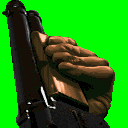
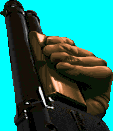
weapon textures can now be different sizes

diff --git a/src/raycaster.cpp b/src/raycaster.cpp
@@ -50,10 +50,14 @@ struct Sprite {
 struct Weapon {
 	std::string name;
 	int frameCount;
+	std::vector<int> frameSmallWidth;
+	std::vector<int> frameSmallHeight;
 	std::vector<std::vector<Uint32>> frameSmall;
+	std::vector<int> frameWidth;
+	std::vector<int> frameHeight;
 	std::vector<std::vector<Uint32>> frame;
 	std::vector<int> frameSequence;
-	std::vector<int> frameTime;
+	int frameTime;
 };
 
 int worldMap[mapWidth][mapHeight] = {
@@ -127,15 +131,17 @@ void combSort(int* order, double* dist, int amount) {
 }
 
 void drawWeapon(int id, int seq) {
-	int drawStartY = h - 256;
-	int drawEndY = drawStartY + 256;
-	int drawStartX = (w / 2) - 128;
-	int drawEndX = drawStartX + 256;
+	// take the sequence in the animation and convert to the actual frame to draw
 	int frame = weapon[id].frameSequence[seq];
+
+	int drawStartY = h - weapon[id].frameHeight[frame];
+	int drawEndY = drawStartY + weapon[id].frameHeight[frame];
+	int drawStartX = (w / 2) - (weapon[id].frameWidth[frame] / 2);
+	int drawEndX = drawStartX + weapon[id].frameWidth[frame];
 	for(int y = drawStartY; y < drawEndY; y++) {
 		for(int x = drawStartX; x < drawEndX; x++) {
-			Uint32 color = weapon[id].frame[frame][256 * (y - drawStartY) + (x - drawStartX)];
-			if(INTtoRGB(color) != ColorRGB(0, 255, 0)) {
+			Uint32 color = weapon[id].frame[frame][weapon[id].frameWidth[frame] * (y - drawStartY) + (x - drawStartX)];
+			if(INTtoRGB(color) != ColorRGB(0, 255, 255)) {
 				buffer[y][x] = color;
 			}
 		}
@@ -168,17 +174,41 @@ int main() {
 	loadImage(texture[2], tw, th, "data/textures/ceiling.png");
 	loadImage(texture[3], tw, th, "data/sprites/imp_standing.png");
 
-	// load weapons
+	// configure shotgun
+	// weapon name
 	shotgun.name = "shotgun";
+
+	// number of frames to load
 	shotgun.frameCount = 6;
+
+	// set size of vectors to number of frames to load
 	shotgun.frameSmall.resize(shotgun.frameCount);
 	shotgun.frame.resize(shotgun.frameCount);
-	shotgun.frameSequence = {0, 1, 2, 1, 3, 4, 5, 4, 3};
-	shotgun.frameTime = {100, 100, 100, 100, 100, 100, 100, 100, 100};
+
+	// width & height of frames to load
+	shotgun.frameSmallWidth = {79, 79, 79, 119, 87, 113};
+	shotgun.frameSmallHeight = {60, 73, 82, 121, 151, 131};
+
+	// set width & height of frames to double what they were loaded as
+	shotgun.frameWidth.resize(shotgun.frameCount);
+	shotgun.frameHeight.resize(shotgun.frameCount);
+	for(int i = 0; i < shotgun.frameCount; i++) {
+		shotgun.frameWidth[i] = shotgun.frameSmallWidth[i] * 2;
+		shotgun.frameHeight[i] = shotgun.frameSmallHeight[i] * 2;
+	}
+
+	// set frame sequence for weapon animation
+	shotgun.frameSequence = {0, 1, 2, 1, 0, 3, 4, 5, 4, 3};
+
+	// time each frame lasts in milliseconds
+	shotgun.frameTime = 75;
+
+	// set first weapon to our new shotgun
 	weapon[0] = shotgun;
 
+	// set size of frameSmall[i] to size of image to load
 	for(int i = 0; i < weapon[0].frameCount; i++) {
-		weapon[0].frameSmall[i].resize(128 * 128);
+		weapon[0].frameSmall[i].resize(weapon[0].frameSmallWidth[i] * weapon[0].frameSmallHeight[i]);
 	}
 
 	// load weapon frames
@@ -188,16 +218,31 @@ int main() {
 
 	// scale & store weapon image
 	for(int i = 0; i < weapon[0].frameCount; i++) {
-		weapon[0].frame[i].resize(256 * 256);
-		for(int y = 0; y < 128; y++) {
-			for(int x = 0; x < 128; x++) {
-				weapon[0].frame[i][512 * y + 2 * x] = weapon[0].frameSmall[i][128 * y + x];
-				weapon[0].frame[i][512 * y + 2 * x + 1] = weapon[0].frameSmall[i][128 * y + x];
-				weapon[0].frame[i][512 * y + 2 * x + 256] = weapon[0].frameSmall[i][128 * y + x];
-				weapon[0].frame[i][512 * y + 2 * x + 257] = weapon[0].frameSmall[i][128 * y + x];
+		// resize frame to frameWidth * frameHeight
+		weapon[0].frame[i].resize(weapon[0].frameWidth[i] * weapon[0].frameHeight[i]);
+
+		// iterate through each pixel in the loaded weapon texture
+		for(int y = 0; y < weapon[0].frameSmallHeight[i]; y++) {
+			for(int x = 0; x < weapon[0].frameSmallWidth[i]; x++) {
+				// get pixel color at x/y coord in weapon texture
+				Uint32 color = weapon[0].frameSmall[i][weapon[0].frameSmallWidth[i] * y + x];
+
+				// enlarge weapon by setting color of 4x4 square to color
+				weapon[0].frame[i][weapon[0].frameWidth[i] * y * 2 + 2 * x] = color;
+				weapon[0].frame[i][weapon[0].frameWidth[i] * y * 2 + 2 * x + 1] = color;
+				weapon[0].frame[i][weapon[0].frameWidth[i] * y * 2 + 2 * x + weapon[0].frameWidth[i]] = color;
+				weapon[0].frame[i][weapon[0].frameWidth[i] * y * 2 + 2 * x + weapon[0].frameWidth[i] + 1] = color;
 			}
 		}
 	}
+
+	// weapon[0].frame[5].resize(weapon[0].frameWidth[5] * weapon[0].frameHeight[5]);
+	// for(int y = 0; y < weapon[0].frameSmallHeight[5]; y++) {
+	// 	for(int x = 0; x < weapon[0].frameSmallWidth[5]; x++) {
+	// 		Uint32 color = weapon[0].frameSmall[5][weapon[0].frameSmallWidth[5] * y + x];
+	// 		weapon[0].frame[5][weapon[0].frameWidth[5] * y * 2 + 2 * x] = color;
+	// 	}
+	// }
 
 	// swap x/y since they're used as vertical stripes
 	for(size_t i = 0; i < texCount; i++) {
@@ -523,13 +568,13 @@ int main() {
 		}
 
 		if(animateWeapon) {
-			if(weaponFrame == 0 && (time - lastWeaponFrameTime) >= weapon[0].frameTime[weaponFrame]) {
+			if(weaponFrame == 0 && (time - lastWeaponFrameTime) >= weapon[0].frameTime) {
 				weaponFrame++;
 				lastWeaponFrameTime = time;
-			} else if(weaponFrame < weapon[0].frameSequence.size() - 1 && (time - lastWeaponFrameTime) >= weapon[0].frameTime[weaponFrame]) {
+			} else if(weaponFrame < weapon[0].frameSequence.size() - 1 && (time - lastWeaponFrameTime) >= weapon[0].frameTime) {
 				weaponFrame++;
 				lastWeaponFrameTime = time;
-			} else if(time - lastWeaponFrameTime >= weapon[0].frameTime[weaponFrame]){
+			} else if(time - lastWeaponFrameTime >= weapon[0].frameTime){
 				weaponFrame = 0;
 				lastWeaponFrameTime = time;
 				animateWeapon = false;
